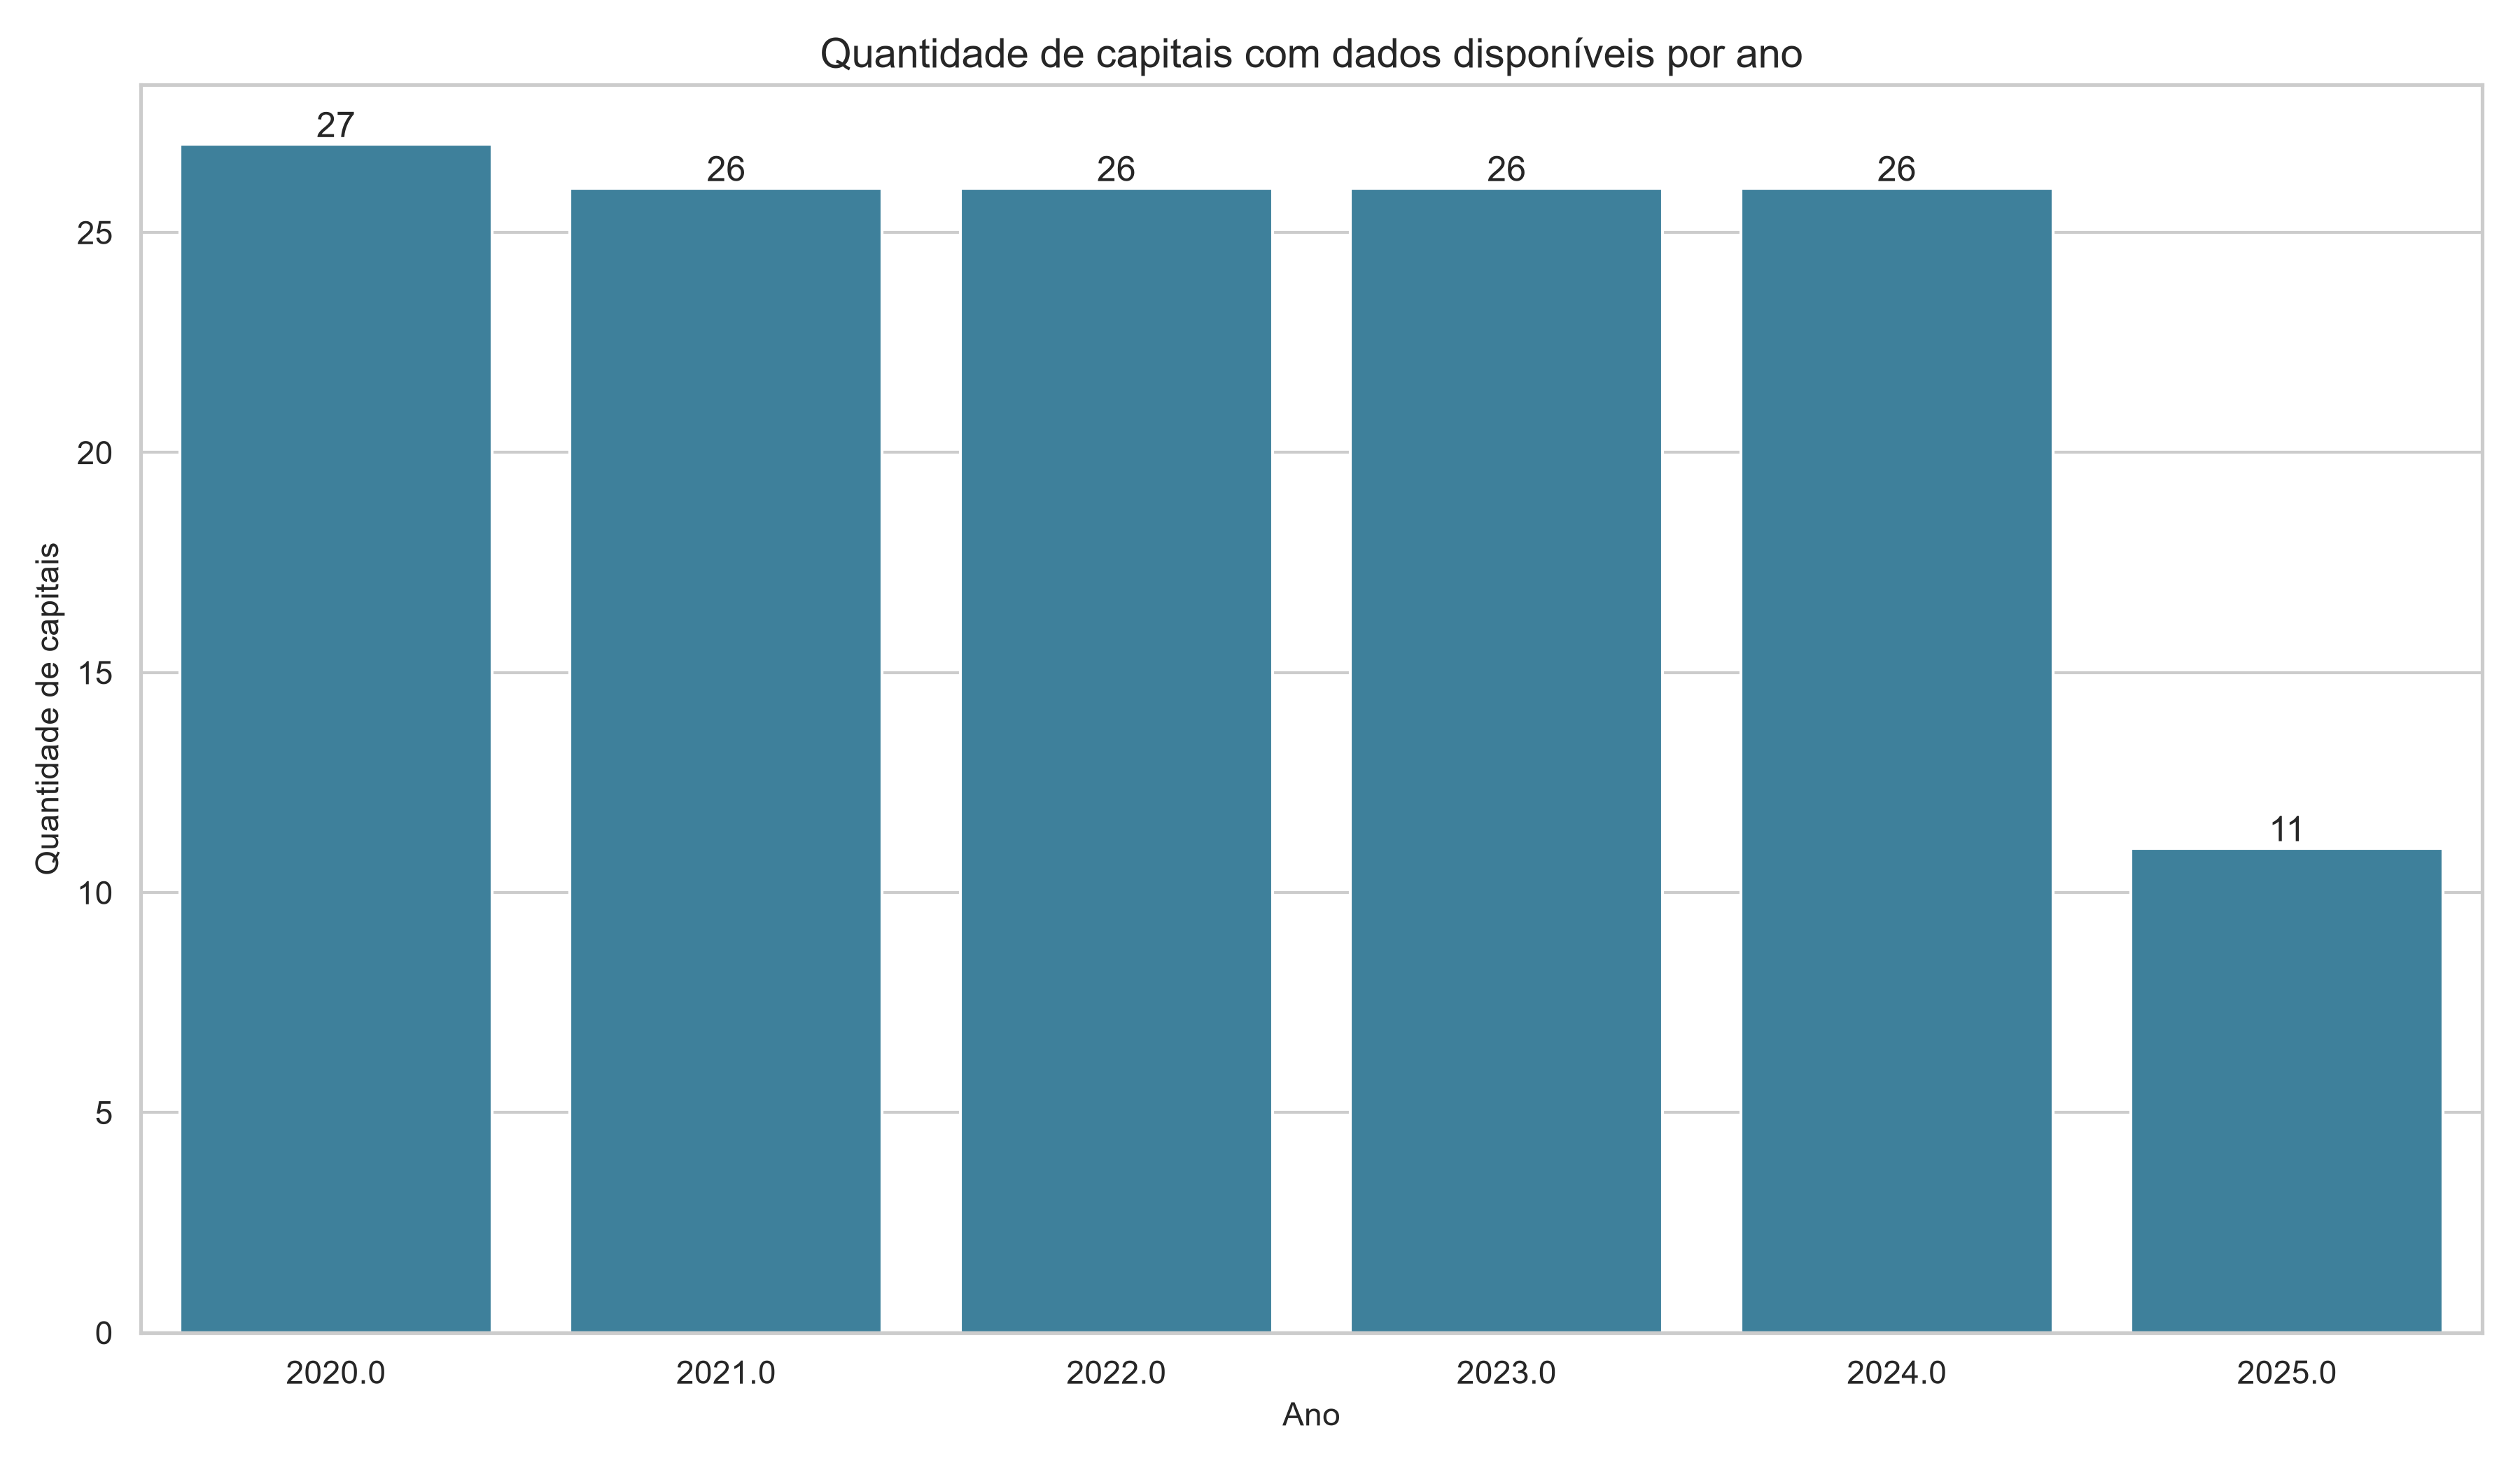
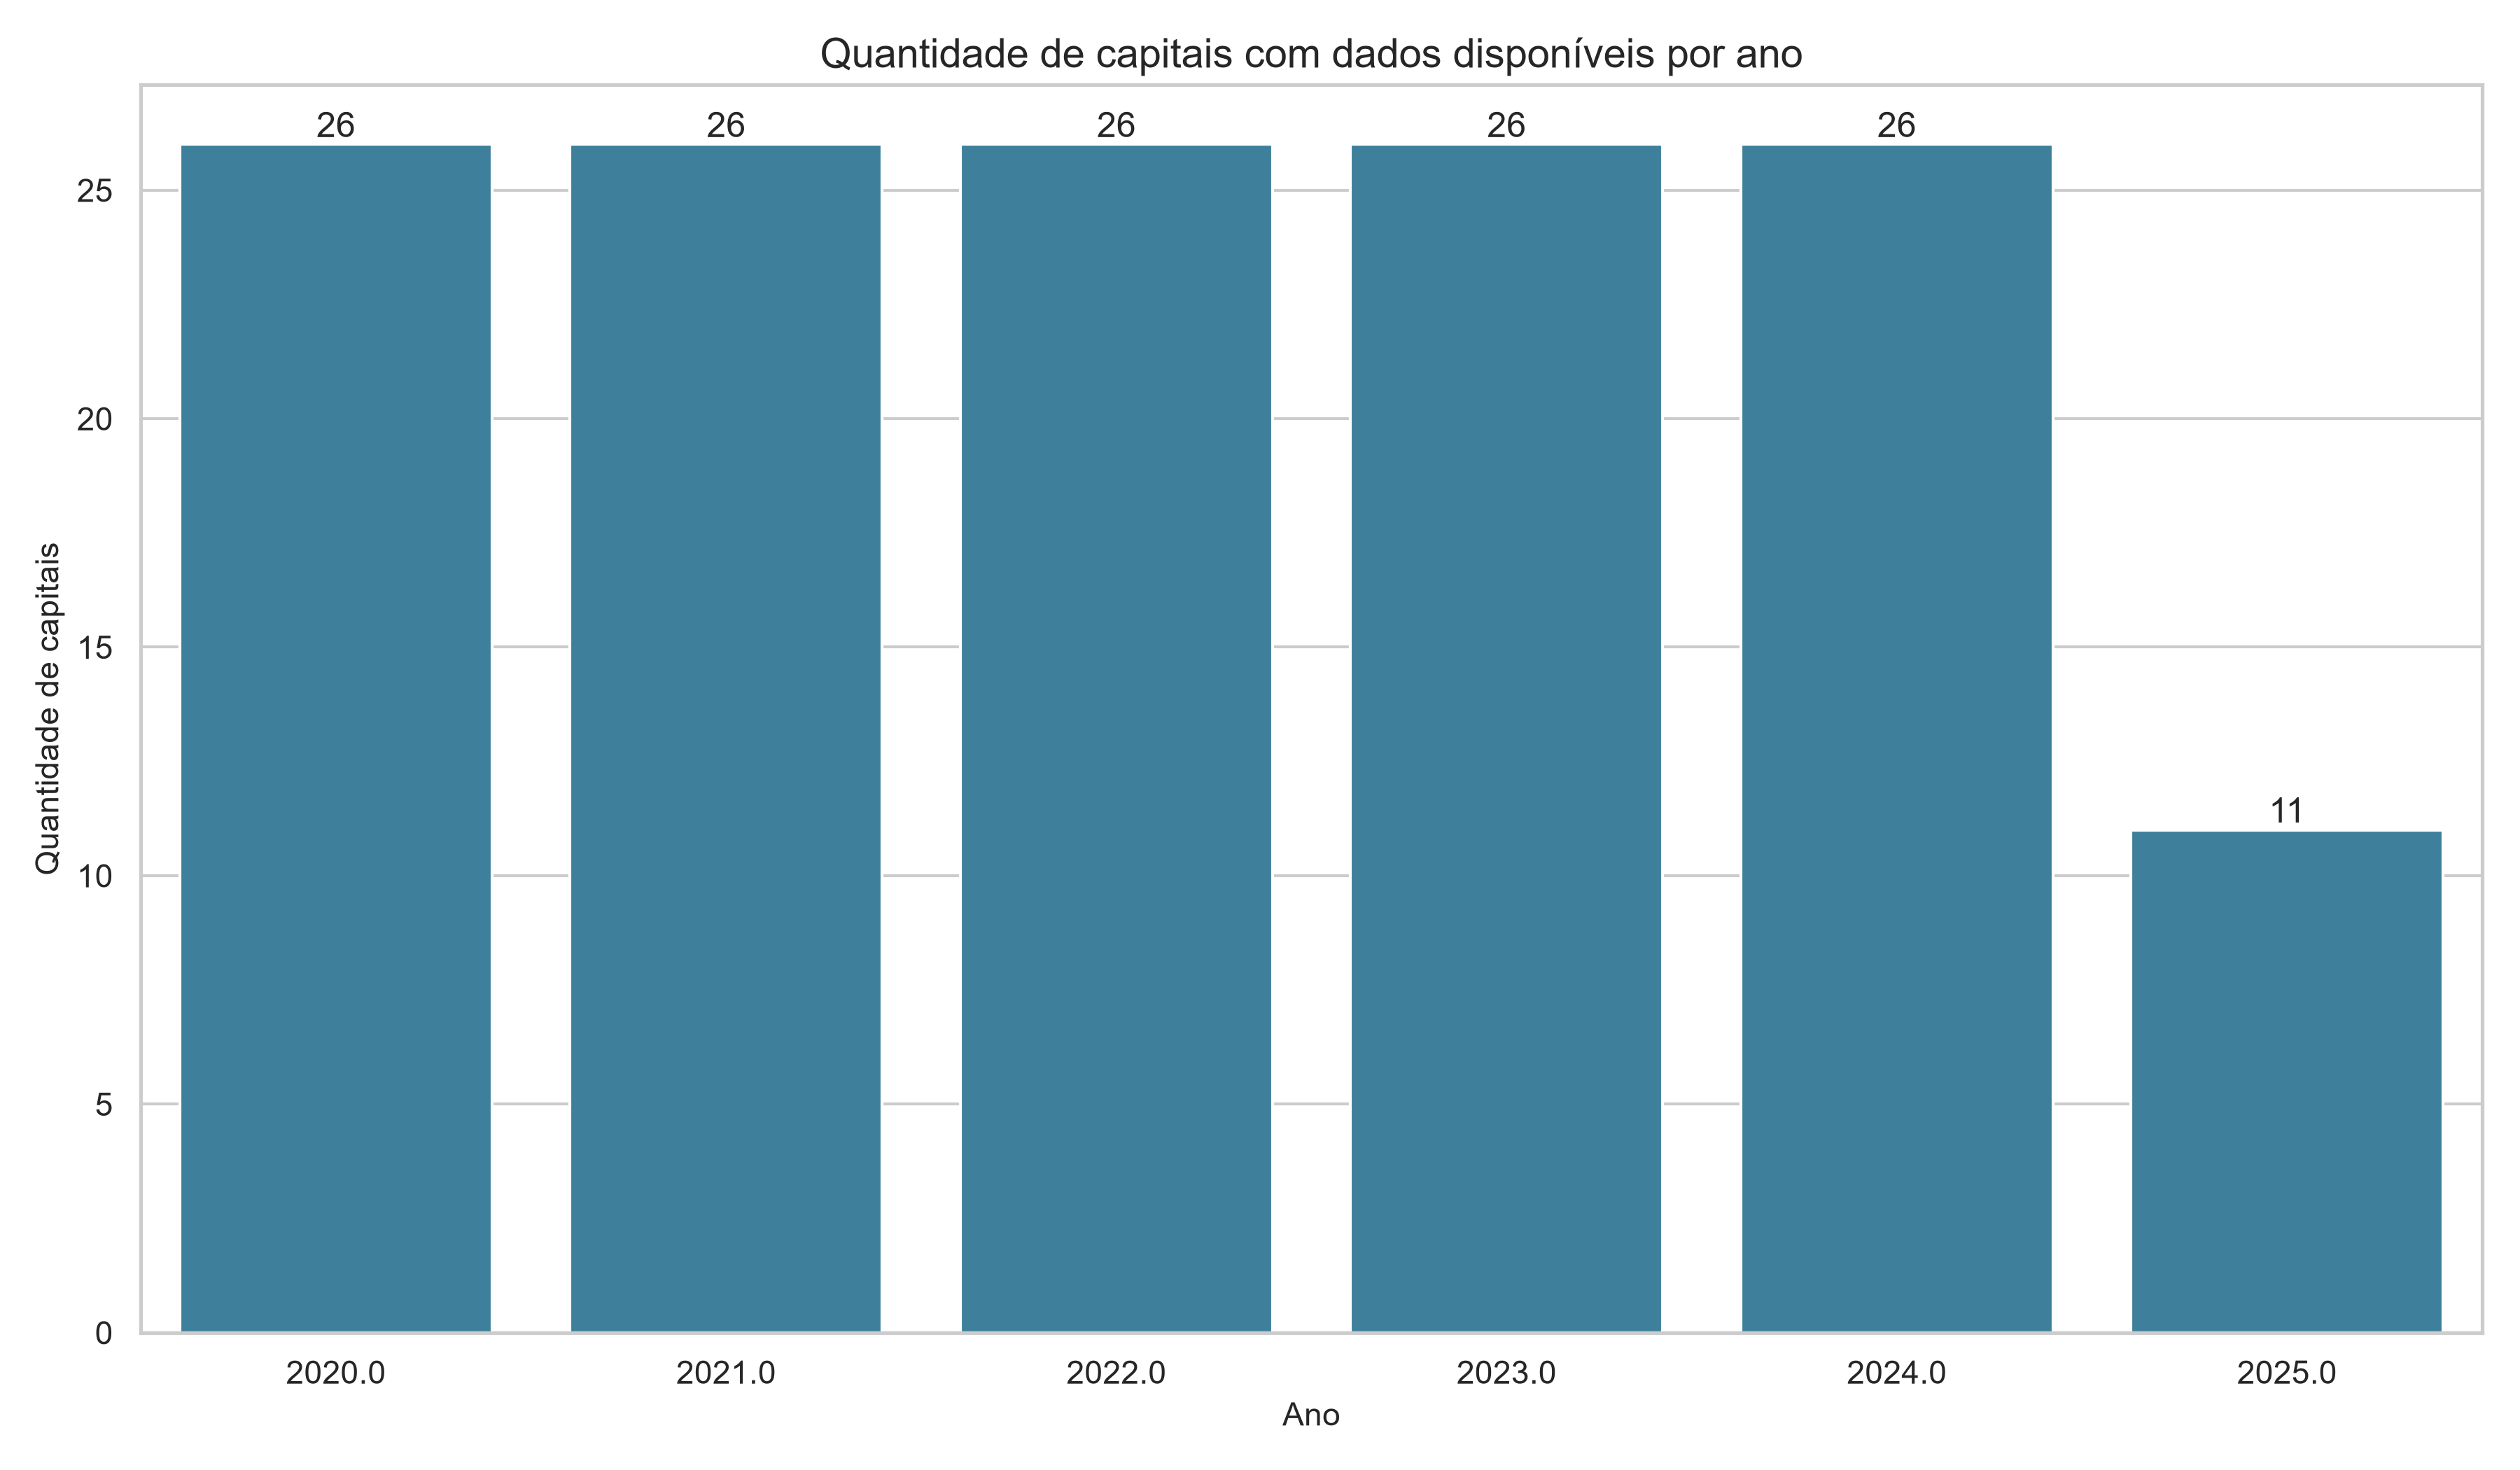
Corrigi padronizacao do nome de Rio Branco

diff --git a/desafio_Sefaz/src/03_tratar_dados.py b/desafio_Sefaz/src/03_tratar_dados.py
@@ -93,12 +93,23 @@ def tratar_dados():
 
     # Simplifica o nome da instituicao para obter apenas o nome da capital
     df["capital"] = (
-     df["Instituição"]
+    df["Instituição"]
+    .astype(str)
+    .str.strip()
+    .str.replace(r" - [A-Z]{2}$", "", regex=True)
     .str.replace("Prefeitura Municipal de ", "", regex=False)
     .str.replace("Prefeitura Municipal do ", "", regex=False)
     .str.replace("Prefeitura Municipal da ", "", regex=False)
-    .str.replace(r" - [A-Z]{2}$", "", regex=True)
+    .str.replace("Municipal de ", "", regex=False)
+    .str.strip()
 )
+
+# Correção pontual identificada na validação de 2020
+    df["capital"] = df["capital"].replace({
+    "nicipal de Rio Branco": "Rio Branco"
+})
+
+
 
     # Salva a base tratada em CSV e Parquet
     df.to_csv(ARQUIVO_SAIDA_CSV, index=False, encoding="utf-8-sig")

diff --git a/desafio_Sefaz/src/04_validar_dados.py b/desafio_Sefaz/src/04_validar_dados.py
@@ -34,6 +34,8 @@ def validar_dados():
 
     # Lista quais capitais possuem dados em 2025
     capitais_2025 = sorted(df[df["ano"] == 2025]["capital"].dropna().unique())
+           
+    capitais_2020 = sorted(df[df["ano"] == 2020]["capital"].dropna().unique())
 
     # Salva o resumo da validacao em arquivo de texto
     with open(ARQUIVO_SAIDA, "w", encoding="utf-8") as arquivo:
@@ -70,6 +72,11 @@ def validar_dados():
             "ano de comparacao entre capitais.\n"
         )
 
+        arquivo.write("Capitais com dados em 2020:\n")
+        for capital in capitais_2020:
+            arquivo.write(f"- {capital}\n")
+        arquivo.write("\n")
+
     # Mostra no terminal os principais resultados
     print("Validacao concluida.")
     print("Resumo salvo em:", ARQUIVO_SAIDA)
@@ -80,7 +87,11 @@ def validar_dados():
     print("\nCapitais com dados em 2025:")  
     for capital in capitais_2025:
      print("-", capital)
-    # Isso ajuda a mostrar que 2025 esta incompleto e deve ser analisado com cautela. Além de contar quantas capitais existem em cada ano, listei quais capitais aparecem em 2025. Isso deixa claro que o ano mais recente é parcial e evita uma comparação injusta com anos completos.
+    # Isso ajuda a mostrar que 2025 esta incompleto e deve ser analisado com cautela. Além de contar quantas capitais existem em cada ano, listei quais capitais aparecem em 2025. Isso deixa claro que o ano mais recente é parcial e evita uma comparação injusta com anos completos. 
+
+    print("\nCapitais com dados em 2020:")
+    for capital in capitais_2020:
+     print("-", capital)
 
 
 if __name__ == "__main__":